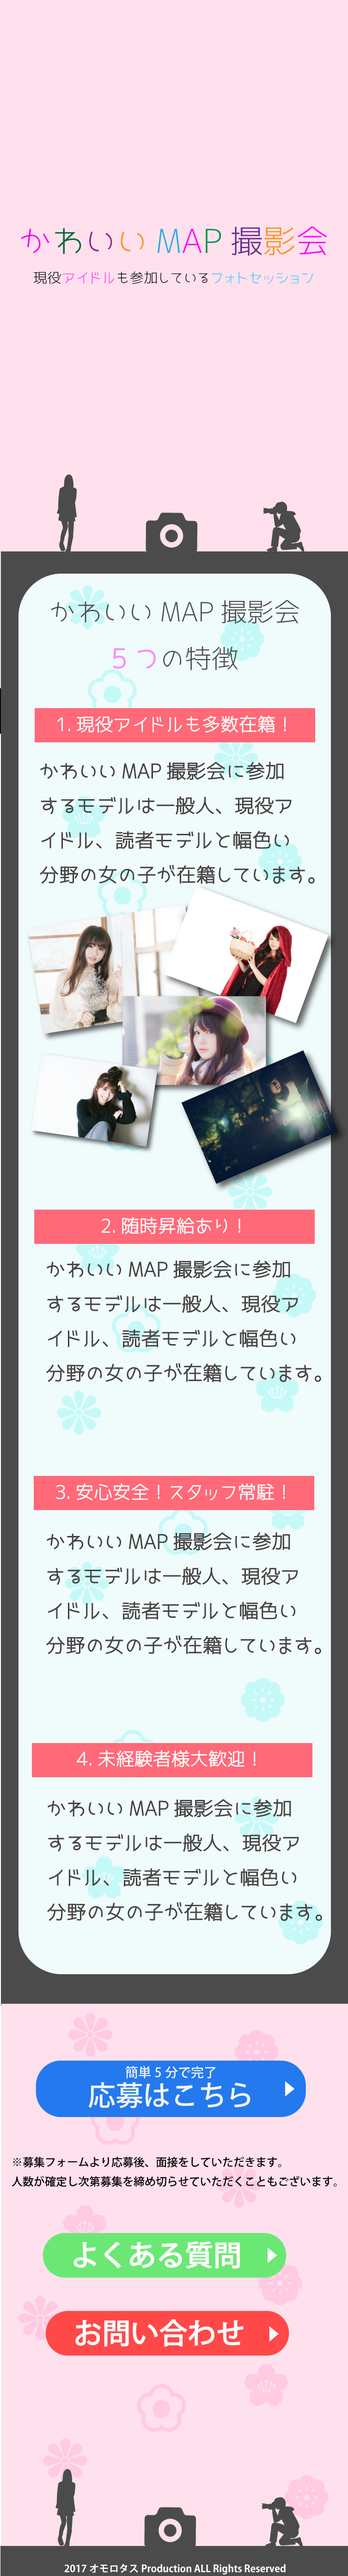
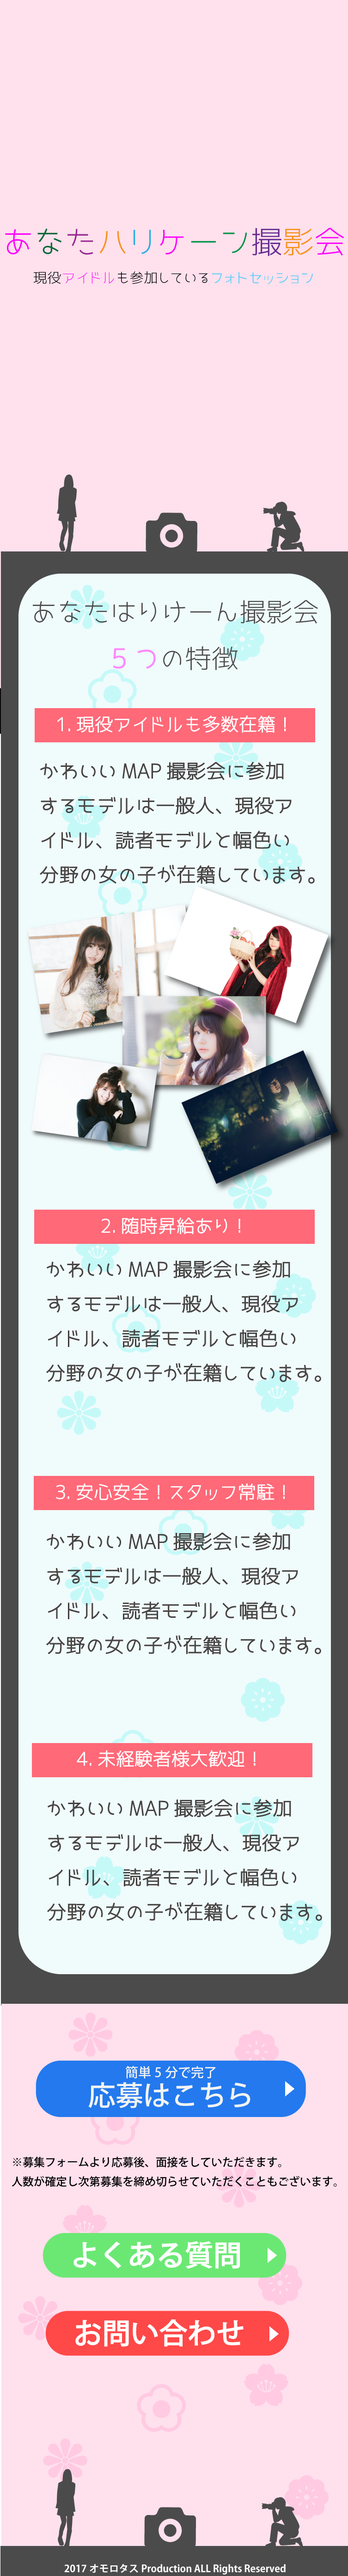
sdf

diff --git a/index.php b/index.php
@@ -8,7 +8,7 @@
 <body>
 
 <div class="relative">
-  <img class="lp"src="lp5.jpg" alt="">
+  <img class="lp"src="lp6.jpg" alt="">
 </div>
 
 </body>
